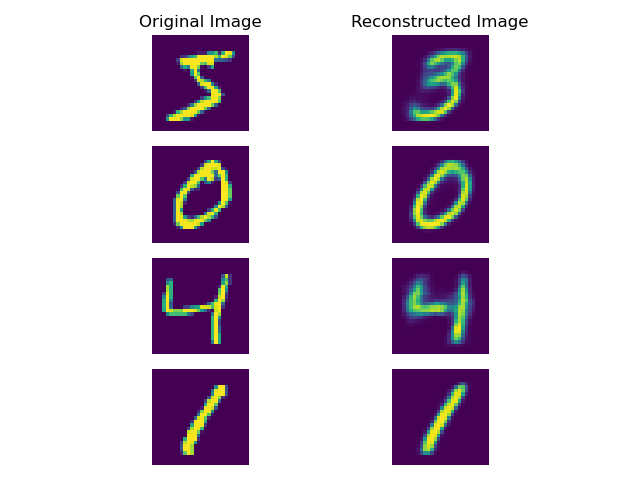
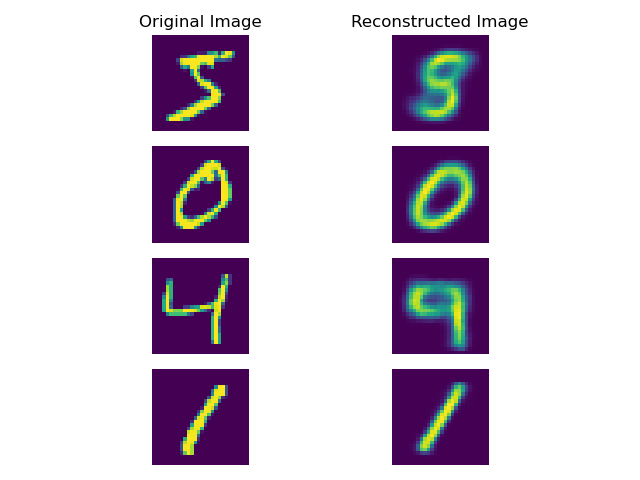
vae with ipg-her

diff --git a/src/pbmg/main_vae.py b/src/pbmg/main_vae.py
@@ -67,8 +67,8 @@ print('Found GPU at: {}'.format(device_name))
 # #### Hyper-parameters for RACECAR Environment
 ##########################################
 config_dict = dict(
-    buffer_capacity = 20000,    # 50k (racecar)  # 20K (kuka)
-    batch_size = 128,  # 512 (racecar) #   128 (kuka)
+    buffer_capacity = 30000,    # 50k (racecar)  # 20K (kuka)
+    batch_size = 256,  # 512 (racecar) #   128 (kuka)
     # use_attention = {'type': 'luong',   # type: luong, bahdanau
     #                  'arch': 0,         # arch: 0, 1, 2, 3
     #                  'return_scores': False},  # visualize attention maps       
@@ -202,7 +202,7 @@ if __name__ == "__main__":
     # load VAE Model
     agent.feature.load_model('/home/swagat/GIT/RL-Projects-SK/src/pbmg/vae_models/enc_wts.h5')
 
-    agent.feature.model.trainable = False     # Freeze the encoder
+    #agent.feature.model.trainable = False     # Freeze the encoder
     agent.feature.model.summary()
     input('Check non-trainable parameters. Press Enter to continue ...')
 

diff --git a/src/algo/vae.py b/src/algo/vae.py
@@ -125,7 +125,7 @@ class Encoder(keras.Model):
         plt.xlabel('z - dim 1')
         plt.ylabel('z - dim 2')
         plt.colorbar()
-        plt.savefig('./latent_space.png')
+        plt.savefig('./vae_latent_space.png')
 
     def save_model(self, filename):
         self.model.save_weights(filename)
@@ -213,6 +213,7 @@ class VAE(keras.Model):
             name="reconstruction_loss"
         )
         self.kl_loss_tracker = keras.metrics.Mean(name="kl_loss")
+        self.optimizer = keras.optimizers.Adam(learning_rate=0.001)
 
     @property
     def metrics(self):
@@ -318,7 +319,8 @@ if __name__ == '__main__':
 
     vae = VAE(obs_shape=inp_shape, latent_dim=latent_dim)
     vae.compile(optimizer=keras.optimizers.Adam())
-    vae.fit(mnist_digits, epochs=30, batch_size=128)    
+    history = vae.fit(mnist_digits, epochs=10, batch_size=128, verbose=1)   
+    print(history.history.keys())
     vae.viz_decoded(mnist_digits[0:4])
     vae.encoder.viz_latent_space((mnist_digits, mnist_labels))
     

diff --git a/src/pbmg/ipg_her_pbmg_vae.py b/src/pbmg/ipg_her_pbmg_vae.py
@@ -127,7 +127,7 @@ class IPGHERAgent_pbmg(IPGHERAgent):
         return mean_ep_reward
 
     
-    def run(self, env, max_seasons=200, training_batch=2560, 
+    def run(self, env, max_seasons=200, training_batch=5120, 
                 WB_LOG=False, success_value=None, 
                 filename=None, chkpt_freq=None, path='./'):
 
